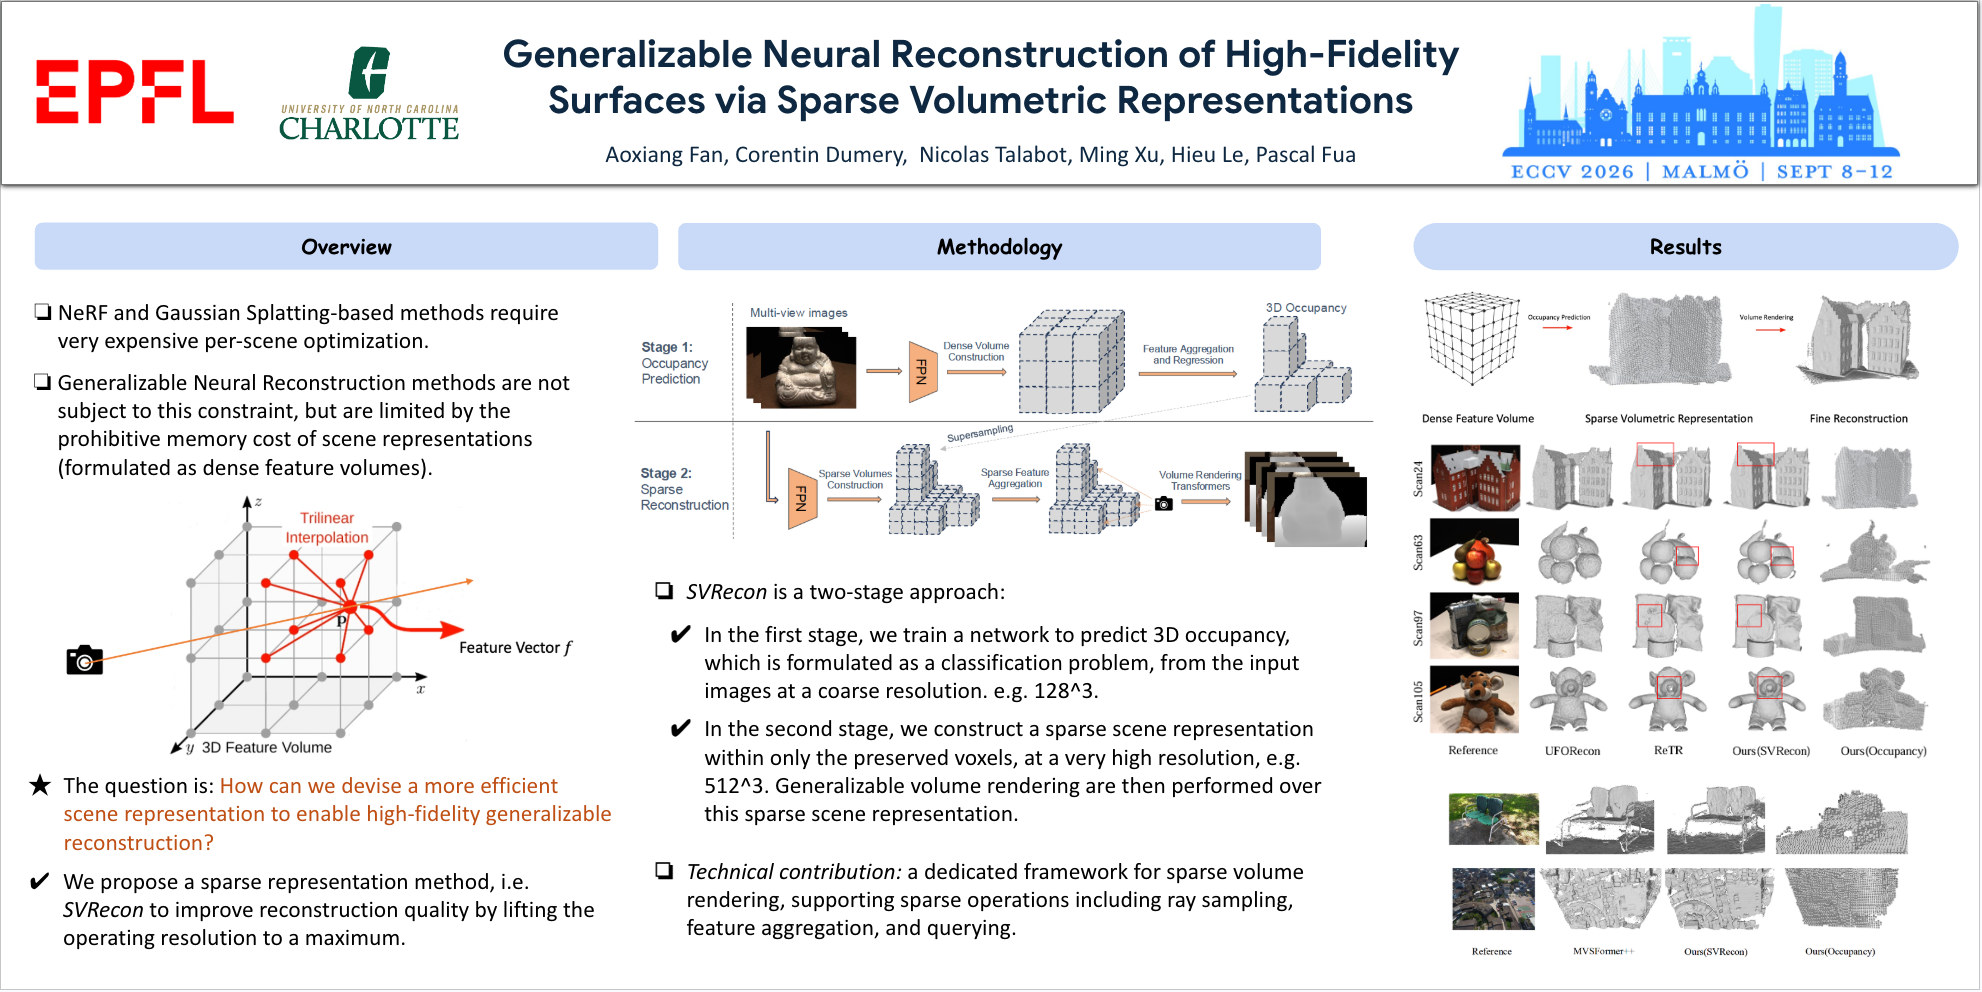
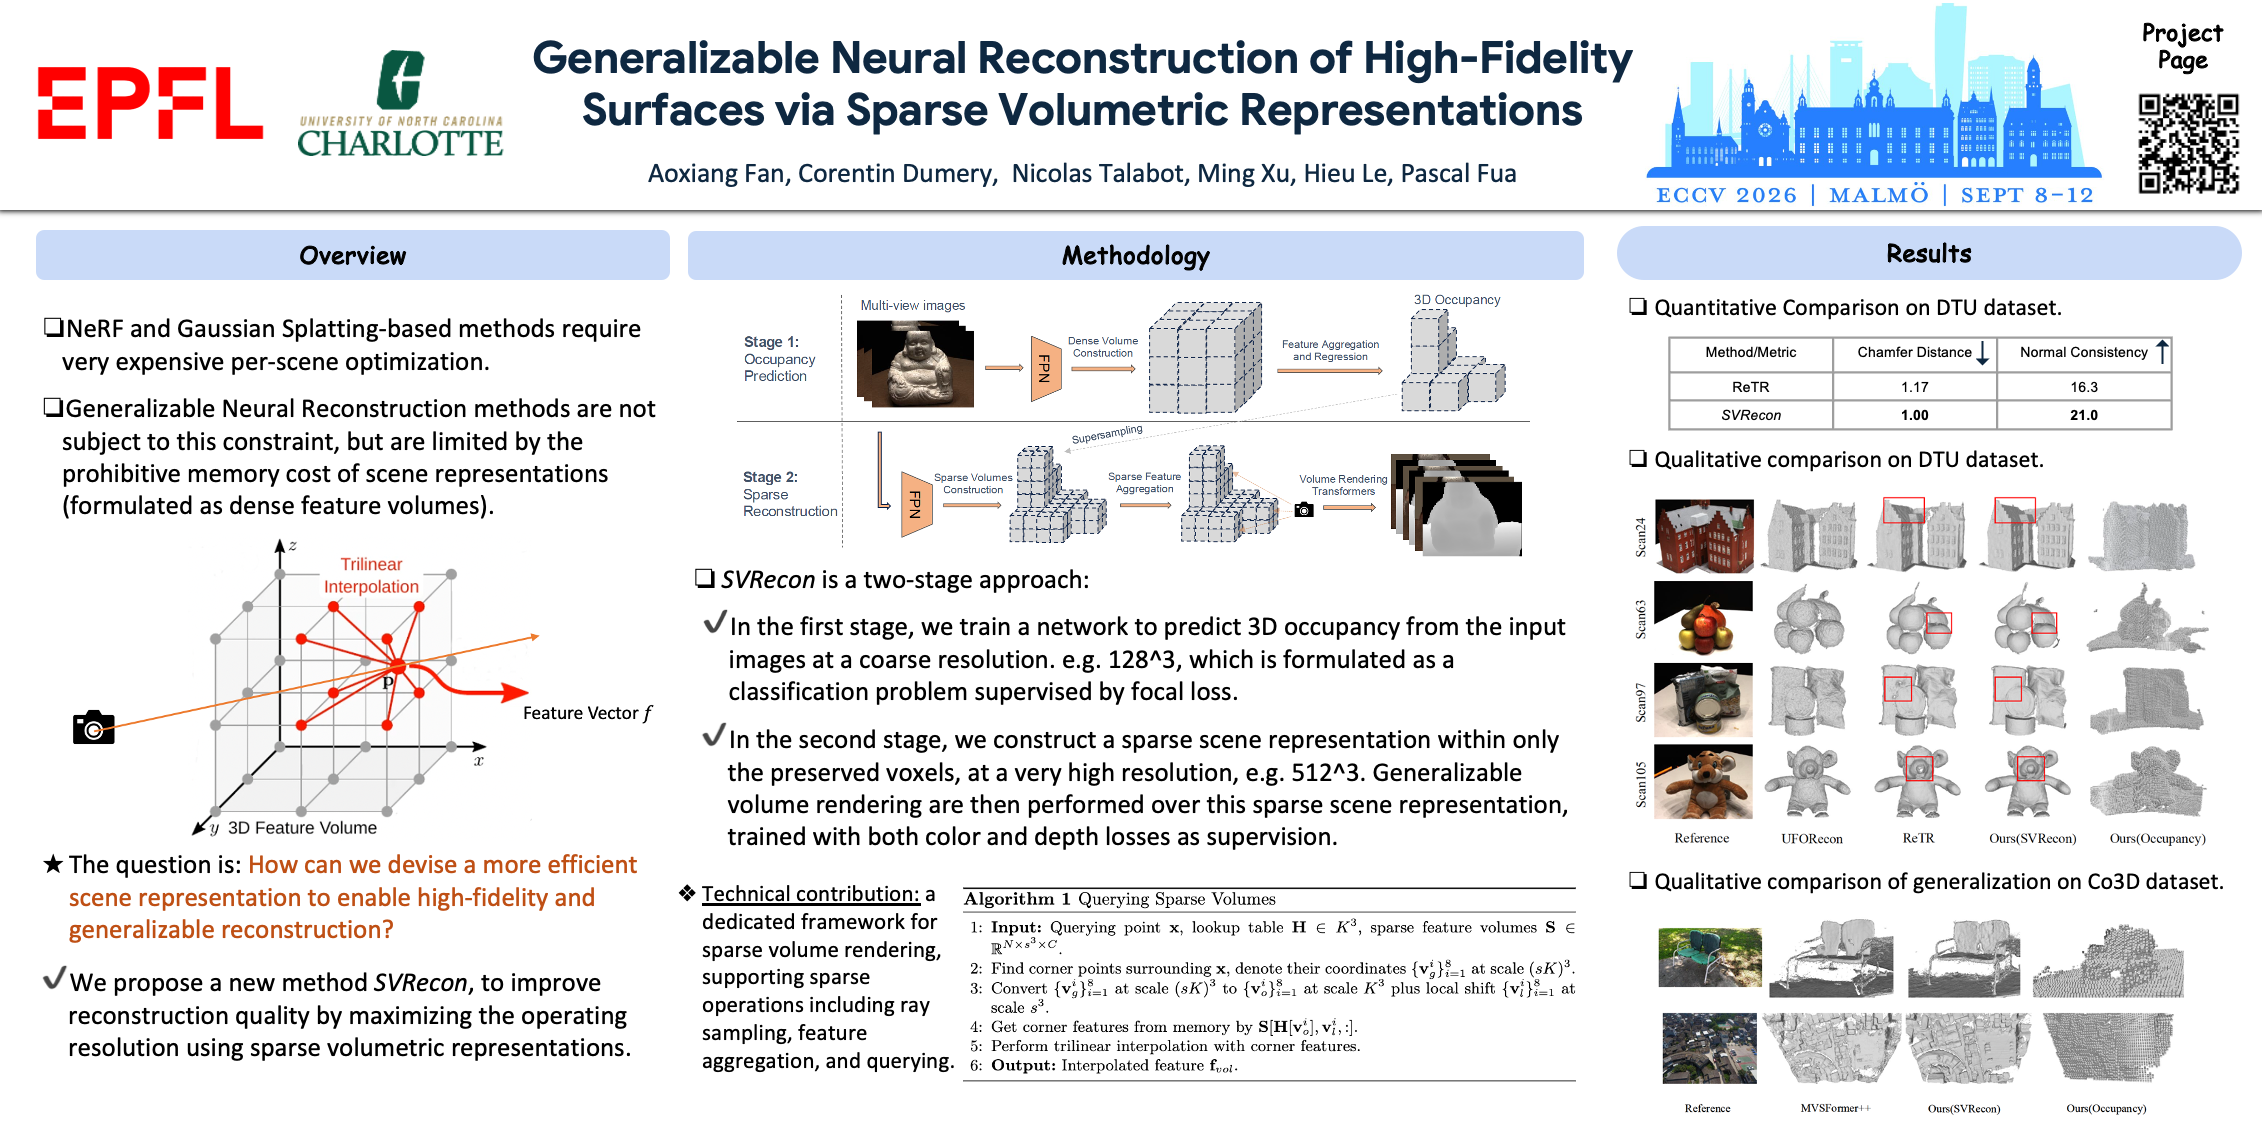
update ECCV26 project

diff --git a/projects/sparse_recon/index.html b/projects/sparse_recon/index.html
@@ -32,7 +32,7 @@
   <link rel="stylesheet"
         href="https://cdn.jsdelivr.net/gh/jpswalsh/academicons@1/css/academicons.min.css">
   <link rel="stylesheet" href="./static/css/index.css">
-  <link rel="icon" type="image/png" href="../../favicon_io/favicon-32x32.png">
+  <link rel="icon" type="image/png" href="../../favicon_io/Doraemon_32x32.jpg">
 
   <script src="https://ajax.googleapis.com/ajax/libs/jquery/3.5.1/jquery.min.js"></script>
   <script defer src="./static/js/fontawesome.all.min.js"></script>
@@ -184,13 +184,13 @@
 
         <!-- Structural Optimization. -->
         <div class="content has-text-justified">
-            <h2 class="title is-3 has-text-centered"><p>Generalizable Reconstruction Results</p></h2>
+            <h2 class="title is-3 has-text-centered"><p>Quantitative comparison on DTU dataset against the main baseline</p></h2>
             <div class="has-text-centered">
               <img style="width: 100%;" src="./assets/example.png"
-                   alt="An illustrative example of generalizable reconstruction results."/>
+                   alt="Quantitative comparison on DTU dataset against the main baseline."/>
             </div>
             <p>
-              Qualitative comparison on DTU dataset.
+              Compared to our main baseline ReTR, SVRecon achieves significantly better results in terms of both Chamfer Distance (CD) and Normal Consistency (NC) on the DTU dataset, demonstrating its superior performance in reconstructing high-fidelity surfaces.
             </p>
           </div>
 
@@ -206,14 +206,11 @@
 
         <!-- Structural Optimization. -->
         <div class="content has-text-justified">
-            <h2 class="title is-3 has-text-centered"><p>Generalizable Reconstruction Results</p></h2>
+            <h2 class="title is-3 has-text-centered"><p>Qualitative comparison on DTU dataset</p></h2>
             <div class="has-text-centered">
               <img style="width: 100%;" src="./assets/quali1.png"
                    alt="Qualitative comparison on DTU dataset."/>
             </div>
-            <p>
-              Qualitative comparison on DTU dataset.
-            </p>
           </div>
 
         <!--/ Structural Optimization. -->
@@ -228,14 +225,11 @@
 
         <!-- Structural Optimization. -->
         <div class="content has-text-justified">
-            <h2 class="title is-3 has-text-centered"><p>Generalizable Reconstruction Results</p></h2>
+            <h2 class="title is-3 has-text-centered"><p>Qualitative comparison of generalization on Co3D dataset.</p></h2>
             <div class="has-text-centered">
               <img style="width: 100%;" src="./assets/quali2.png"
                    alt="Qualitative comparison on Co3D dataset."/>
             </div>
-            <p>
-              Qualitative comparison on Co3D dataset.
-            </p>
           </div>
 
         <!--/ Structural Optimization. -->
